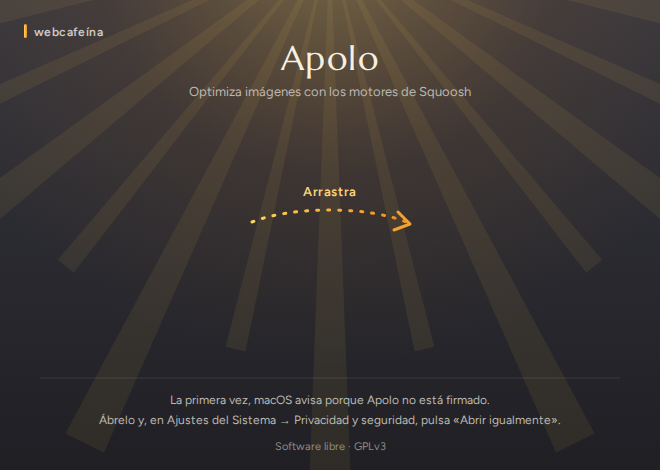
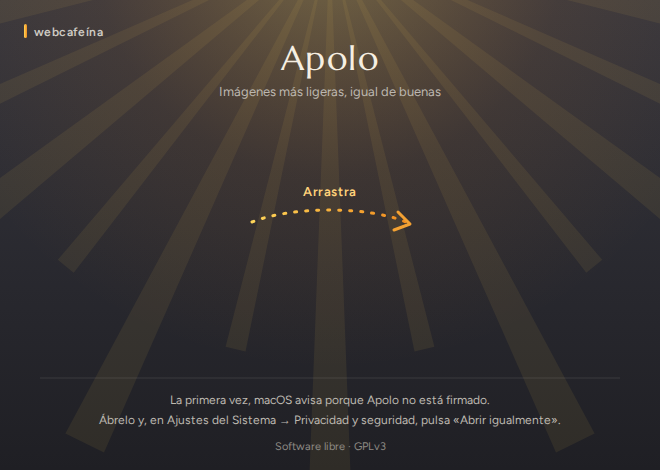
Fase comercial: Squoosh fuera de lo público, la frase nueva y capturas con fondo transparente
Primera parte de la fase comercial (ADR 0033), antes de la web nueva. La frase
«Imágenes más ligeras, igual de buenas» / «Lighter images, just as good»
sustituye a «con los motores de Squoosh» en la aplicación (bienvenida y
Acerca de), la ayuda de la línea de comandos, las descripciones de los
paquetes, el .desktop y el metainfo de Linux, el PKGBUILD, Homebrew y el fondo
del instalador de Mac, rehecho con rasterizar.mjs, que ahora admite un filtro
por nombre. La descripción de Linux sigue en ASCII («Optimiza fotos: pesan
menos y se ven igual»). La ayuda de la paleta, las palabras clave del .mcpb,
cuatro notas antiguas que saldrán en Novedades y CLAUDE.md dejan de nombrar a
Squoosh. Una prueba nueva, publico.test.ts, lo vigila, y que la descripción de
Linux sea ASCII.

Para las capturas de la web, ?fondo=transparente quita el degradado que imita
el vidrio en el navegador, y capturas.spec.ts acepta CAPTURAS_FONDO=transparente
(guarda la transparencia) y CAPTURAS_ESCALA=2. ADR 0033, con lo decidido con el
cliente: Astro, estilo de página de producto de Apple, comparador y vídeo en la
portada, detección de sistema, cookies con Consent Mode v2 básico.

Changed region(s): [[0.2727, 0.1787, 0.7273, 0.2085]]

diff --git a/frontend/e2e/capturas.spec.ts b/frontend/e2e/capturas.spec.ts
@@ -27,6 +27,10 @@ const VIDRIO = process.env.CAPTURAS_VIDRIO === "si";
 const BARRA = process.env.CAPTURAS_BARRA ?? "";
 // Y el escritorio (ADR 0031): `CAPTURAS_ESCRITORIO=kde` pide `?escritorio=kde`.
 const ESCRITORIO = process.env.CAPTURAS_ESCRITORIO ?? "";
+// Las de la web (ADR 0033): `CAPTURAS_FONDO=transparente` deja ver lo de detrás del vidrio (la
+// web pone su escritorio), y `CAPTURAS_ESCALA=2` las saca para pantallas de alta densidad.
+const TRANSPARENTE = process.env.CAPTURAS_FONDO === "transparente";
+const ESCALA = Number(process.env.CAPTURAS_ESCALA ?? "1");
 const BASE = SISTEMA
   ? `capturas/${SISTEMA}${ESCRITORIO ? `-${ESCRITORIO}` : ""}${VIDRIO ? "-vidrio" : ""}${BARRA ? `-${BARRA}` : ""}`
   : "capturas";
@@ -37,6 +41,7 @@ function raiz(extra = ""): string {
   if (VIDRIO) q.set("vidrio", "si");
   if (BARRA) q.set("barra", BARRA);
   if (ESCRITORIO) q.set("escritorio", ESCRITORIO);
+  if (TRANSPARENTE) q.set("fondo", "transparente");
   const s = q.toString();
   return s ? `/?${s}` : "/";
 }
@@ -76,7 +81,13 @@ function empieza(texto: string): RegExp {
 }
 
 test.skip(!process.env.CAPTURAS, "solo con CAPTURAS=1");
-test.use({ testIdAttribute: "data-prueba" });
+test.use({ testIdAttribute: "data-prueba", deviceScaleFactor: ESCALA });
+// Con el fondo transparente, cada captura guarda la transparencia.
+test.beforeEach(({ page }) => {
+  if (!TRANSPARENTE) return;
+  const captura = page.screenshot.bind(page);
+  page.screenshot = (o = {}) => captura({ ...o, omitBackground: true });
+});
 
 test("estudio", async ({ page }, info) => {
   await page.goto(raiz());

diff --git a/frontend/src/publico.test.ts b/frontend/src/publico.test.ts
@@ -1,0 +1,35 @@
+// Lo que ve el público, vigilado (ADR 0033): Squoosh no se nombra en ningún
+// texto que llegue a la gente, y la descripción del paquete de Linux va en
+// ASCII, que el Centro de aplicaciones de Ubuntu cambia las tildes por «?»
+// (docs/trampas.md). Los README y la web se suman al cambiar de web.
+import { readdirSync, readFileSync } from "node:fs";
+import { join } from "node:path";
+import { describe, expect, it } from "vitest";
+
+const RAIZ = join(import.meta.dirname, "../..");
+const de = (carpeta: string, filtro: (f: string) => boolean = () => true) =>
+  readdirSync(join(RAIZ, carpeta))
+    .filter(filtro)
+    .map((f) => join(carpeta, f));
+
+const PUBLICOS = [
+  ...de("frontend/src/i18n", (f) => f.endsWith(".json")),
+  ...de("src-tauri", (f) => /^tauri.*\.json$/.test(f)),
+  ...de("empaquetado/linux"),
+  "empaquetado/aur/PKGBUILD",
+  ...de("empaquetado/homebrew", (f) => f.endsWith(".rb")),
+  "empaquetado/macos/fondo-dmg.svg",
+  ...de(".github/notas", (f) => f.endsWith(".md")),
+];
+
+describe("lo que ve el público", () => {
+  it.each(PUBLICOS)("%s no nombra a Squoosh", (f) => {
+    expect(readFileSync(join(RAIZ, f), "utf8").toLowerCase()).not.toContain("squoosh");
+  });
+
+  it("la descripción del paquete de Linux va en ASCII", () => {
+    const { bundle } = JSON.parse(readFileSync(join(RAIZ, "src-tauri/tauri.linux.conf.json"), "utf8"));
+    expect(bundle.shortDescription).toMatch(/^[\x20-\x7e]+$/);
+    expect(bundle.longDescription).toMatch(/^[\x20-\x7e]+$/);
+  });
+});

diff --git a/frontend/src/main.tsx b/frontend/src/main.tsx
@@ -20,8 +20,9 @@ void Promise.allSettled([
   plataforma().then((p) => {
     document.documentElement.dataset.sistema = p.sistema;
     document.documentElement.dataset.vidrio = p.vidrio ? "si" : "no";
-    // En el navegador no hay vidrio de verdad: un degradado lo imita para las capturas.
-    if (p.simulado && p.vidrio) document.documentElement.dataset.vidrioSimulado = "si";
+    // En el navegador no hay vidrio de verdad: un degradado lo imita para las capturas. Las de
+    // la web lo quieren transparente, para poner detrás su propio escritorio (ADR 0033).
+    if (p.simulado && p.vidrio && !p.transparente) document.documentElement.dataset.vidrioSimulado = "si";
     // En las capturas de Linux con la barra del sistema, una dibujada ocupa su sitio arriba.
     if (p.simulado) document.documentElement.dataset.simulado = "si";
     // En Linux, si la parte de arriba es la barra de Apolo o la del sistema (ADR 0029).

diff --git a/frontend/src/puente.ts b/frontend/src/puente.ts
@@ -147,6 +147,9 @@ export interface Plataforma {
   /** En Linux, el escritorio: «gnome», «kde» u «otro», que se ve como GNOME (ADR 0031). En el
    *  navegador, `?escritorio=kde`. */
   escritorio?: string;
+  /** Solo en el navegador, para las capturas de la web (ADR 0033): `?fondo=transparente` quita el
+   *  degradado que imita el vidrio, y la web pone detrás su propio escritorio. */
+  transparente?: boolean;
 }
 
 // En el navegador de desarrollo, el aspecto de otro sistema se puede pedir en la URL, como la
@@ -171,6 +174,7 @@ function simulada(): Plataforma {
     esquinas: q.get("esquinas") === "si",
     gestor,
     escritorio: q.get("escritorio") ?? "gnome",
+    transparente: q.get("fondo") === "transparente",
   };
 }
 

diff --git a/crates/mcpb/src/lib.rs b/crates/mcpb/src/lib.rs
@@ -120,7 +120,7 @@ pub fn manifiesto(version: &str, sistema: Sistema) -> Value {
             "avif",
             "jpeg xl",
             trs!("optimizar", "optimize"),
-            "squoosh"
+            trs!("comprimir", "compress")
         ],
         "compatibility": { "platforms": [sistema.manifiesto()] }
     })
@@ -260,6 +260,9 @@ mod pruebas {
         assert!(es["description"].as_str().unwrap().contains("Optimiza"));
         assert!(en["description"].as_str().unwrap().starts_with("Optimizes"));
         assert_eq!(en["keywords"][0], "images");
+        // Sin nombrar a Squoosh (la fase comercial lo quitó de todo lo público).
+        assert!(!es.to_string().to_lowercase().contains("squoosh"));
+        assert!(!en.to_string().to_lowercase().contains("squoosh"));
         // Las herramientas, con la misma traducción que tools/list.
         let d = |m: &Value, i: usize| m["tools"][i]["description"].as_str().unwrap().to_string();
         for i in 0..es["tools"].as_array().unwrap().len() {

diff --git a/empaquetado/homebrew/apolo.rb b/empaquetado/homebrew/apolo.rb
@@ -3,7 +3,7 @@
 # Release. Binarios ya compilados (los paquetes de la CLI), sin bottles: una fórmula no se pone en
 # cuarentena, así que macOS no los bloquea.
 class Apolo < Formula
-  desc "Image optimizer with Squoosh's engines: CLI and MCP server"
+  desc "Image optimizer CLI and MCP server: lighter images, just as good"
   homepage "https://apolo.webcafeina.com/"
   version "{{VERSION}}"
   license "GPL-3.0-only"

diff --git a/crates/cli/src/main.rs b/crates/cli/src/main.rs
@@ -28,8 +28,8 @@ mod webp;
 #[command(
     name = "apolo",
     about = trs!(
-        "Optimiza imágenes con los motores de Squoosh",
-        "Optimizes images with Squoosh's engines"
+        "Optimiza imágenes: más ligeras, igual de buenas",
+        "Optimizes images: lighter, just as good"
     ),
     disable_version_flag = true
 )]

diff --git a/empaquetado/homebrew/apolo-cask.rb b/empaquetado/homebrew/apolo-cask.rb
@@ -11,7 +11,7 @@ cask "apolo" do
 
   url "https://github.com/webcafeina/Apolo/releases/download/v#{version}/Apolo_#{version}_universal.dmg"
   name "Apolo"
-  desc "Image optimizer with Squoosh's engines"
+  desc "Desktop image optimizer: lighter images, just as good"
   homepage "https://apolo.webcafeina.com/"
 
   livecheck do

diff --git a/docs/adr/0033-la-web-comercial.md b/docs/adr/0033-la-web-comercial.md
@@ -1,0 +1,87 @@
+# ADR 0033 — La web comercial, sin Squoosh
+
+**Fecha:** 2026-10-26 · **Estado:** aceptada, en obra · antes de la 1.0.0 · matiza la [0026](0026-web-y-homebrew.md) y la [0024](0024-la-1-0.md)
+
+## Contexto
+
+Con Apolo vista en todos los sistemas (v0.18.3), el cliente abre la fase comercial antes de la
+1.0.0. Quiere:
+- una web más visual y dinámica que detecte el sistema y ofrezca la descarga que toca, con sus
+  capturas;
+- SEO y medición;
+- un README comercial;
+- **ninguna referencia pública a Squoosh**.
+
+La web de la 0026 es HTML escrito a mano dos veces, una por idioma. Tiene 4 capturas del aspecto
+genérico, SEO mínimo y ninguna medición. `web/descargas.js` pide la versión a la API de GitHub y, si
+falla, enseña la 0.12.0.
+
+Planteado el 2026-10-26 en modo plan, con cinco rondas de preguntas, una exploración del repositorio
+y un agente de diseño. El plan está en `~/.claude/plans/buenos-d-as-vamos-a-vivid-whale.md`.
+
+## Decisión
+
+**Decidido con el cliente** (2026-10-26):
+
+| Tema | Decisión |
+|---|---|
+| Objetivo | Descargas de Apolo, con Webcafeína como firma visible y un bloque que lleve a webcafeina.com (con UTM) |
+| Tecnología | **Astro estático** (MIT), compilado en `web.yml`. Se construye en `sitio/`, sin desplegar, y sustituye a `web/` al final |
+| Estilo | **Página de producto de Apple**, elegido sobre un prototipo con tres estilos y cuatro portadas |
+| Portada | **Las dos**: el comparador interactivo arriba (original frente a Apolo, con los pesos y la nota reales) y el vídeo en bucle más abajo |
+| Idioma | Botones «ESP / ENG», con el activo en negrita. Español en `/` e inglés en `/en/`, sin redirección automática |
+| Detección | Windows x64/ARM, macOS y Linux con selector de distribución (Ubuntu/Debian, Fedora/openSUSE, Arch y otra) y de procesador. Lo elegido se recuerda |
+| Adaptación al sistema | Se mantiene la identidad de Apolo. Cambian las capturas, las tarjetas de descarga y los detalles (marco de ventana, forma de los botones), y hay un selector «Ver en» |
+| Páginas | Portada, descarga por sistema, preguntas frecuentes, novedades, CLI, agentes y cookies, en los dos idiomas |
+| Cookies y medición | Banner propio con Consent Mode v2 **básico** (GTM no se carga hasta que se acepta) y una propiedad de GA4 solo para Apolo. Las páginas legales son las de webcafeina.com; la política de cookies es propia |
+| Frase | **«Imágenes más ligeras, igual de buenas» / «Lighter images, just as good»**. En la descripción de Linux, que va en ASCII: «Optimiza fotos: pesan menos y se ven igual» |
+| Squoosh | **Fuera de todo lo público**: la web, los README, la app, la CLI, el `.mcpb`, los paquetes, el fondo del `.dmg`, las notas que salen en Novedades y el repositorio de GitHub. Se quedan los comentarios del código, las ADR, la bitácora y las Releases ya publicadas |
+| Comparador | Fotos CC0 o de dominio público. La primera, la máscara de oro de Micenas, de Jebulon (CC0, Wikimedia Commons) |
+| 1.0.0 | Sale a la vez que la web nueva |
+| Fuera de esta fase | Firmar los instaladores, newsletter y dominio propio |
+
+**Hecho hasta ahora:**
+- **Squoosh fuera de la app y de los paquetes**: `app.lema`, la ayuda de la paleta, el `about` de
+  la CLI, las palabras clave del `.mcpb`, las descripciones de `tauri*.conf.json`, el `.desktop`, el
+  metainfo, el PKGBUILD, Homebrew, el SVG y los PNG del fondo del `.dmg`, cuatro notas antiguas y
+  `CLAUDE.md`.
+- **`frontend/src/publico.test.ts`** vigila que esos ficheros no nombren a Squoosh y que la
+  descripción de Linux sea ASCII.
+- **`?fondo=transparente`** (puente.ts y main.tsx), con `CAPTURAS_FONDO=transparente` y
+  `CAPTURAS_ESCALA=2` en `capturas.spec.ts`: las capturas para la web dejan ver lo que hay detrás del
+  vidrio, y la web pone su propio escritorio.
+- **`frontend/herramientas/rasterizar.mjs` admite un filtro** (`node rasterizar.mjs fondo-dmg`),
+  para rehacer un PNG sin tocar los demás.
+
+## Alternativas descartadas
+
+- **Seguir con HTML a mano.** Con siete páginas, dos idiomas y contenido que cambia en cada versión,
+  todo habría que escribirlo dos veces.
+- **Construir en una rama larga.** `docs/` cambia en cada sesión, y el entorno `github-pages` solo
+  despliega desde `main` y `v*`.
+- **Consultar la API de GitHub desde el navegador.** Hay un límite de peticiones, depende de CORS y
+  la página se queda en una versión vieja si falla. La versión se lee al compilar.
+- **Una plataforma de consentimiento de terceros** (Cookiebot, CookieYes): de pago a partir de
+  cierto tráfico, con su propio diseño.
+- **Consent Mode avanzado**: la AEPD no lo ve claro.
+- **Páginas por formato** (convertir a WebP, a AVIF…): el cliente prefirió las de descarga por
+  sistema, preguntas, novedades, CLI y agentes.
+- **Fotos de Kodak en el comparador**: a 768 × 512 se ven blandas en grande.
+- **Los otros estilos** del prototipo (herramienta moderna y editorial) y las otras portadas (solo el
+  comparador, solo el vídeo, la captura animada).
+
+## Consecuencias
+
+- La web deja de «no mandar nada a nadie» (0026). **La aplicación sigue sin mandar nada**; la web,
+  con permiso, mide visitas.
+- Se pierde la búsqueda «alternativa a Squoosh» y la etiqueta `squoosh` del repositorio.
+- Los cambios de la app (frase, `.dmg`, descripciones de los paquetes) llegan con la 1.0.0.
+- `make comprobar` gana la compilación y las pruebas de la web (fase 3).
+
+## Verificación
+
+- `make comprobar` en verde con `publico.test.ts` (48 casos).
+- El PNG nuevo del fondo del `.dmg`, mirado: la frase nueva, con Marcellus y Figtree.
+- Una captura de macOS con vidrio, fondo transparente y a 2x (2560 × 1600, RGBA), compuesta sobre
+  un color: la barra lateral deja ver lo de detrás.
+- **Sin verificar todavía**: la web nueva entera. Va por fases, F3 a F10 del plan.

diff --git a/docs/decisiones.md b/docs/decisiones.md
@@ -38,10 +38,11 @@ con el cliente.
 | [0023](adr/0023-mcp.md) | Apolo para agentes de IA por MCP: `apolo-mcp` local e independiente, con el núcleo dentro (la arquitectura de Esfinge sin el puente, las herramientas de Cronos); diez herramientas por intención; nunca sobrescribe; nota 80 por defecto; rmcp; dentro del instalador con `.mcpb` y pestaña «Agentes»; lo remoto, después. La 1.0 pasa a la entrega 8 | 2026-10-14 | aceptada |
 | [0024](adr/0024-la-1-0.md) | La 1.0 (entrega 8): Windows y Linux probados (ARM a mano en las máquinas del cliente, x64 con pruebas de humo en CI), sin firmar, rendimiento medido y arreglado, todo en inglés (matiza la 0007), Homebrew (CLI y aplicación) y una web en `apolo.webcafeina.com` | 2026-10-19 | aceptada. Matiz del 2026-10-26: sin prueba guiada final; lo que salga, con el uso |
 | [0025](adr/0025-ingles.md) | Apolo en inglés: en Rust, cada texto con sus dos versiones en el mismo sitio (`tr!`, `trs!`), sin `rust-i18n`; un idioma por proceso (CLI con `--idioma` o el del sistema, `apolo-mcp` con `APOLO_IDIOMA`, la ventana con sus ajustes); las descripciones del MCP, con una tabla; `en.json` con las mismas claves; glosario | 2026-10-20 | aceptada |
-| [0026](adr/0026-web-y-homebrew.md) | La web y Homebrew: `web/` estática con la paleta de la aplicación (`make tokens`), estructura de «raycast», tipografías alojadas, descargas por la API de GitHub y capturas hechas con Apolo; un tap propio con fórmula (CLI) y cask que quita la cuarentena con `postflight_steps`, actualizado desde `publicar.yml` con una deploy key | 2026-10-21 | aceptada |
+| [0026](adr/0026-web-y-homebrew.md) | La web y Homebrew: `web/` estática con la paleta de la aplicación (`make tokens`), estructura de «raycast», tipografías alojadas, descargas por la API de GitHub y capturas hechas con Apolo; un tap propio con fórmula (CLI) y cask que quita la cuarentena con `postflight_steps`, actualizado desde `publicar.yml` con una deploy key | 2026-10-21 | aceptada. Matizada por la 0033: la web pasa a Astro |
 | [0027](adr/0027-windows-con-fluent.md) | Windows con Fluent: la paleta, la escala, los controles y los iconos de WinUI con el oro de Apolo; la estructura de una aplicación de WinUI (barra de título propia de 48 px con ☰, NavigationView plegable que abre plegado, capa del contenido, SettingsCards, InfoBar); la ventana sin marco y con Mica, creada desde código; Snap con una ventana nativa invisible sobre «Maximizar». Matiza la 0015 y la 0016 | 2026-10-21 | aceptada |
 | [0028](adr/0028-macos-con-golden-gate.md) | macOS con el diseño de macOS 27 Golden Gate, medido en el kit oficial de Apple: barra lateral de borde a borde que se oculta, barra de herramientas unificada de 52 con cápsulas de vidrio, controles de 24, filas agrupadas como Ajustes del Sistema, la burbuja de vidrio al pulsar; Liquid Glass en macOS 26+ y el material de siempre antes; el oro de acento, y los iconos de la barra lateral en un oro hecho línea a 3:1. Matiza la 0015 y la 0016 | 2026-10-21 | aceptada |
 | [0029](adr/0029-linux-con-ubuntu.md) | Linux con el diseño de Ubuntu 26.10 (libadwaita 1.10 con Yaru, medido en su código): barra de cabecera propia en GNOME con los botones de la ventana del sistema, barra lateral adaptativa, listas en tarjeta, controles de 34 y Ubuntu Sans de 11 pt, iconos simbólicos de Yaru, el oro de acento; el interruptor con su botón propio (también en macOS, con su burbuja de vidrio) | 2026-10-22 | aceptada |
 | [0030](adr/0030-linux-mas-alla-de-debian.md) | Linux más allá de Debian: `.rpm` firmado (Fedora, openSUSE) que se actualiza desde la banda, `apolo-bin` en el AUR publicado desde CI (y en Arch se actualiza con pacman), y repositorios APT y RPM firmados en apolo.webcafeina.com con solo la última versión; una clave GPG propia; sin Flatpak ni Snap por ahora. Matiza la 0010 y la 0018 | 2026-10-22 | aceptada |
 | [0031](adr/0031-kde-con-breeze.md) | Linux con KDE Plasma: el lenguaje Breeze medido en el código de KDE (Noto Sans 10 pt, radio 5, botones de 32 con borde y sombra, barra lateral en blanco con la fila rellena, ajustes como un FormLayout), iconos de Breeze (LGPL-3.0), el oro de acento y relleno en el botón principal, y la barra de Apolo sin la de KDE con el marco de Breeze; los demás escritorios, como GNOME. Matiza la 0029 | 2026-10-22 | aceptada |
 | [0032](adr/0032-recortar-y-redimensionar-sobre-la-imagen.md) | Recortar y Redimensionar en una barra encima de la imagen, comunes a los dos lados: Redimensionar con ventanita (lado mayor, porcentaje o ancho × alto con candado, tamaños habituales), nunca agranda por defecto; el lado mayor y el porcentaje se guardan como tales en el núcleo, los presets no guardan el recorte y los lotes no recortan; «Tamaño» en Lotes y en `apolo lote`; un proceso que no cambia nada ya no quita la orden equivalente. Matiza la 0020 y la 0023 | 2026-10-23 | aceptada |
+| [0033](adr/0033-la-web-comercial.md) | La web comercial, sin Squoosh: Astro estático (`sitio/` hasta el cambio), estilo de página de producto de Apple con el comparador y el vídeo, detección de sistema con selector de distribución, capturas y descargas por sistema, ESP/ENG, páginas de descarga, preguntas, novedades, CLI y agentes, SEO, GTM con banner propio y Consent Mode v2 básico; frase «Imágenes más ligeras, igual de buenas»; Squoosh fuera de todo lo público; la 1.0.0 con la web. Matiza la 0026 y la 0024 |

diff --git a/docs/sesiones.md b/docs/sesiones.md
@@ -4,6 +4,22 @@ Bitácora: qué se hizo en cada sesión, la más reciente arriba. La plantilla e
 
 ---
 
+## 2026-10-26 (tarde) · La fase comercial: plan, prototipo y Squoosh fuera de la app
+
+- **Plan** en modo plan, con cinco rondas de preguntas: web en Astro, detección de sistema, SEO, GTM
+  con banner propio, README comercial, Squoosh fuera de lo público y la 1.0.0 con la web (ADR 0033).
+- **Prototipo** (F1): artefacto con 3 estilos × 4 portadas, capturas al día de las cuatro vistas,
+  comparador con la máscara de oro de Micenas (CC0; a 1600 px y nota 80, PNG 3,3 MB → AVIF 378 KB)
+  y un borrador de vídeo grabado con Playwright (cursor dibujado) y pasado por ffmpeg. **El cliente
+  eligió el estilo Apple y la portada «las dos»**.
+- **F2**: Squoosh fuera de la app y los paquetes (lista en la ADR 0033), `publico.test.ts`, el fondo
+  del `.dmg` rehecho (`rasterizar.mjs` con filtro), y `?fondo=transparente` y `CAPTURAS_ESCALA` para
+  las capturas de la web.
+- **El disco** se llenó otra vez (2,7 GB libres): `target/debug/deps` tenía 43 GB de copias viejas;
+  se borraron y quedaron 47 GB libres (deuda.md).
+
+---
+
 ## 2026-10-26 (mañana) · Sin prueba guiada final; macOS en el idioma de Apolo
 
 - **El cliente descarta la prueba guiada final**: con las 0.13 a 0.18 ya ha visto Apolo en todos sus

diff --git a/docs/estado.md b/docs/estado.md
@@ -13,7 +13,9 @@
 > banner propio y Consent Mode v2 básico (GA4 propio, ID pendiente del cliente); frase nueva
 > «Imágenes más ligeras, igual de buenas»; Squoosh fuera de todo lo público; README comercial; la
 > **1.0.0 sale con la web**. Fases F1 (prototipo con 3 estilos × 4 portadas, para que elija) a F10.
-> **Ahora: F1, el prototipo, publicado y esperando la elección del cliente**:
+> **El cliente eligió el estilo Apple y la portada «las dos»** (comparador arriba, vídeo debajo). **F2
+> hecha** (Squoosh fuera de la app y los paquetes, `publico.test.ts`, `?fondo=transparente`, ADR
+> 0033). **Lo siguiente: F3, el andamiaje de Astro en `sitio/`.** El prototipo (F1):
 > https://claude.ai/artifact/5PFdGPJ2fcMJNmdsuLuPwn (3 estilos × 4 portadas, «Ver en» con las 4 vistas,
 > tarjetas de descarga con selector de distribución, ESP/ENG, banner de cookies). Ficheros en el
 > scratchpad de la sesión (`prototipo/`), con el guion del borrador del vídeo (`zz-video.spec.ts`).
